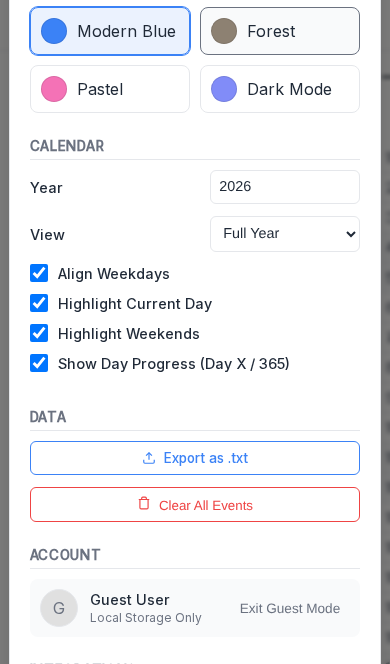
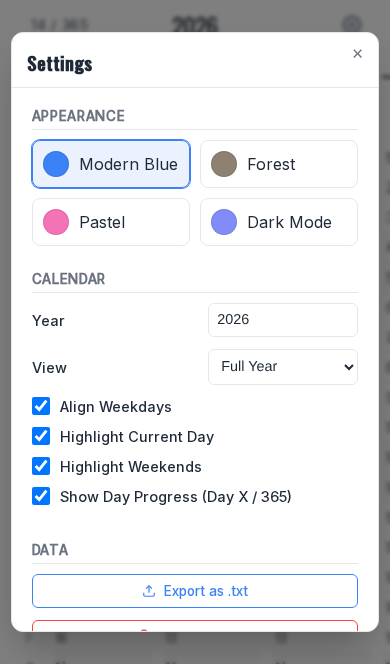
Improve mobile settings modal and touch drag

diff --git a/src/App.css b/src/App.css
@@ -695,6 +695,16 @@ body[data-theme='dark'] .day-cell.highlighted {
 }
 
 @media (max-width: 480px) {
+  .modal.settings-modal {
+    width: 94vw;
+    max-height: 90vh;
+  }
+
+  .settings-content {
+    max-height: calc(90vh - 72px);
+    overflow-y: auto;
+  }
+
   .settings-actions-grid {
     grid-template-columns: 1fr;
   }

diff --git a/src/components/SettingsModal.tsx b/src/components/SettingsModal.tsx
@@ -107,7 +107,11 @@ const SettingsModal: FC<SettingsModalProps> = ({
     ];
 
     return (
-        <div className="modal-overlay" onMouseDown={(e: React.MouseEvent) => e.target === e.currentTarget && onClose()}>
+        <div
+            className="modal-overlay"
+            onMouseDown={(e: React.MouseEvent) => e.target === e.currentTarget && onClose()}
+            onTouchStart={(e: React.TouchEvent) => e.target === e.currentTarget && onClose()}
+        >
             <div className="modal bounce-in settings-modal">
                 <div className="modal-header">
                     <h3>Settings</h3>

diff --git a/src/components/PlannerGrid.tsx b/src/components/PlannerGrid.tsx
@@ -44,7 +44,7 @@ const PlannerGrid: React.FC<PlannerGridProps> = ({ onEventClick, setTodayInView,
         }),
         useSensor(TouchSensor, {
             activationConstraint: {
-                delay: 250,
+                delay: 300,
                 tolerance: 5,
             },
         })